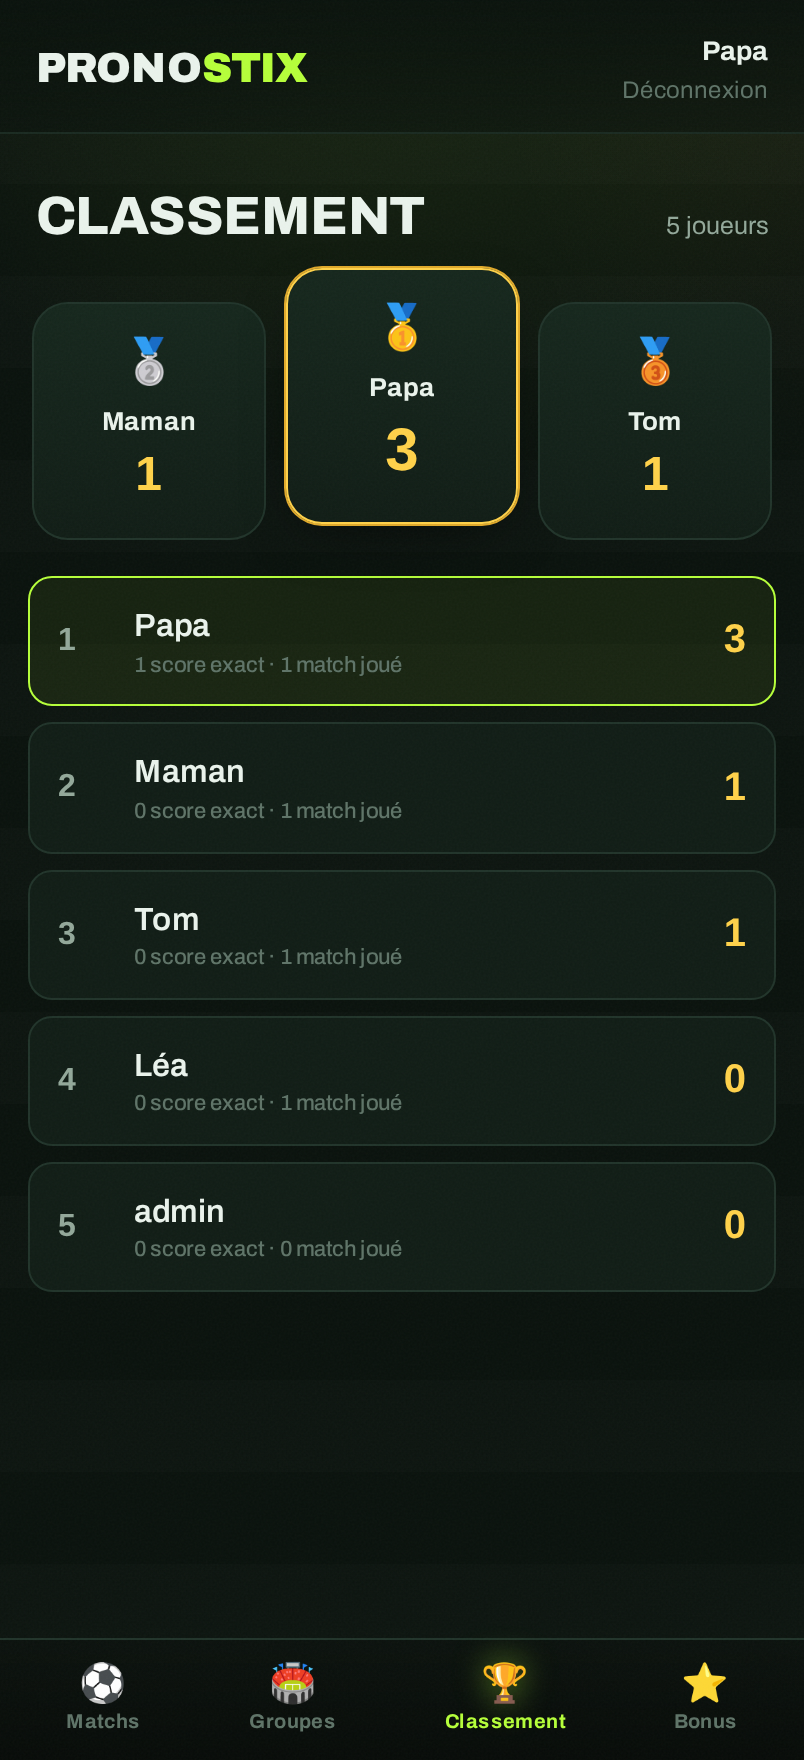
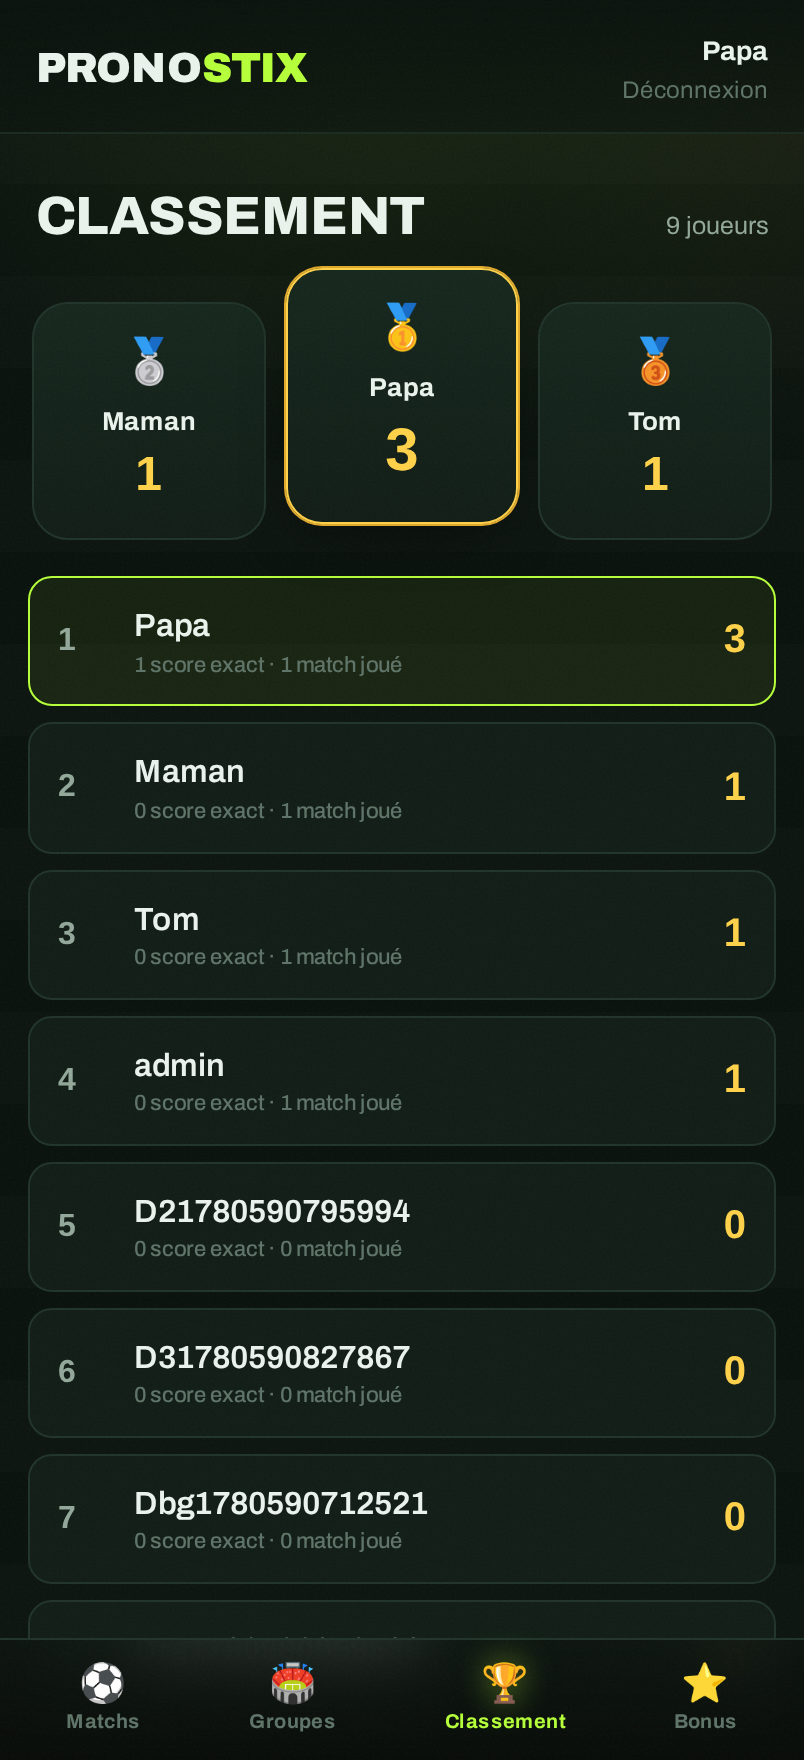
Ordre des groupes en drag & drop (tactile + souris)
Remplace les flèches haut/bas par une poignée de glisse basée sur les Pointer
Events : fonctionne au doigt sur mobile sans déclencher le scroll, et à la souris.
Réordonnancement en direct, renumérotation 1-4, sauvegarde auto. Screenshots du
README régénérés avec la nouvelle UI.

diff --git a/public/app.js b/public/app.js
@@ -310,7 +310,7 @@ function groupCard(g) {
         <tbody>${standRows}</tbody>
       </table>
       <div class="subhead">Ton pronostic d'ordre final</div>
-      <ul class="order-list" data-letter="${g.letter}">
+      <ul class="order-list ${g.locked ? 'locked' : ''}" data-letter="${g.letter}">
         ${orderTeams.map((t, i) => orderItem(t, i, official, g.locked)).join('')}
       </ul>
     </div>`;
@@ -322,41 +322,71 @@ function orderItem(t, i, official, locked) {
     const correct = official[i] === t.id;
     badge = correct ? `<span class="ok">✓ +1</span>` : `<span class="miss">✗</span>`;
   }
-  const arrows = locked ? '' : `
-    <div class="arrows">
-      <button data-act="up" ${i === 0 ? 'disabled' : ''}>▲</button>
-      <button data-act="down" data-last="${i}">▼</button>
-    </div>`;
+  const handle = locked ? '' : `<button class="drag-handle" aria-label="Glisser pour classer" title="Glisser pour classer">⠿</button>`;
   return `
-    <li class="order-item" data-team="${t.id}">
+    <li class="order-item ${locked ? '' : 'draggable'}" data-team="${t.id}">
       <span class="rk">${i + 1}</span>
       <img src="${flagUrl(t.flag)}" alt=""/>
       <span class="nm">${esc(t.name)}</span>
-      ${badge}${arrows}
+      ${badge}${handle}
     </li>`;
 }
 
 function bindGroups(view) {
-  view.addEventListener('click', (e) => {
-    const btn = e.target.closest('[data-act]');
-    if (!btn) return;
-    const list = e.target.closest('.order-list');
-    if (!list) return;
-    const item = e.target.closest('.order-item');
-    const items = [...list.children];
-    const idx = items.indexOf(item);
-    if (btn.dataset.act === 'up' && idx > 0) list.insertBefore(item, items[idx - 1]);
-    else if (btn.dataset.act === 'down' && idx < items.length - 1) list.insertBefore(items[idx + 1], item);
-    else return;
-    // renumber + persist
-    [...list.children].forEach((li, i) => { li.querySelector('.rk').textContent = i + 1; });
-    const letter = list.dataset.letter;
-    const order = [...list.children].map(li => Number(li.dataset.team));
-    [...list.querySelectorAll('.arrows button[data-act="up"]')].forEach((b, i) => b.disabled = i === 0);
+  view.querySelectorAll('.order-list:not(.locked)').forEach(enableDragReorder);
+}
+
+// Touch + mouse drag-to-reorder via Pointer Events (no native HTML5 DnD — it doesn't work on mobile).
+function enableDragReorder(list) {
+  const letter = list.dataset.letter;
+  let drag = null;
+
+  const onMove = (e) => {
+    if (!drag) return;
+    e.preventDefault();
+    // measure true flow position with the transform cleared, reorder, then offset under finger
+    drag.li.style.transform = 'none';
+    const others = [...list.querySelectorAll('.order-item:not(.dragging)')];
+    let ref = null;
+    for (const s of others) {
+      const r = s.getBoundingClientRect();
+      if (e.clientY < r.top + r.height / 2) { ref = s; break; }
+    }
+    list.insertBefore(drag.li, ref);
+    [...list.children].forEach((x, i) => { x.querySelector('.rk').textContent = i + 1; });
+    const slotTop = drag.li.getBoundingClientRect().top;
+    drag.li.style.transform = `translateY(${(e.clientY - drag.offsetY) - slotTop}px) scale(1.02)`;
+  };
+
+  const onUp = (e) => {
+    if (!drag) return;
+    const { li, handle } = drag;
+    handle.removeEventListener('pointermove', onMove);
+    try { handle.releasePointerCapture(e.pointerId); } catch {}
+    li.classList.remove('dragging');
+    li.style.transform = '';
+    li.style.zIndex = '';
+    drag = null;
+    const order = [...list.children].map(x => Number(x.dataset.team));
     debounceSave('g' + letter, async () => {
       try { await api(`/api/groups/${letter}/order`, { method: 'PUT', body: { order } }); toast(`Groupe ${letter} enregistré`); }
       catch (err) { toast(err.message, 'err'); }
-    }, 500);
+    }, 400);
+  };
+
+  list.querySelectorAll('.drag-handle').forEach(handle => {
+    handle.addEventListener('pointerdown', (e) => {
+      e.preventDefault();
+      const li = handle.closest('.order-item');
+      const rect = li.getBoundingClientRect();
+      drag = { li, handle, offsetY: e.clientY - rect.top };
+      li.classList.add('dragging');
+      li.style.zIndex = '50';
+      try { handle.setPointerCapture(e.pointerId); } catch {}
+      handle.addEventListener('pointermove', onMove);
+      handle.addEventListener('pointerup', onUp, { once: true });
+      handle.addEventListener('pointercancel', onUp, { once: true });
+    });
   });
 }
 

diff --git a/public/styles.css b/public/styles.css
@@ -182,10 +182,19 @@ body::after {
 .order-item .nm { flex: 1; font-size: 13px; font-weight: 600; }
 .order-item .ok { color: var(--gold); font-size: 11px; font-weight: 800; }
 .order-item .miss { color: var(--ink-faint); font-size: 11px; }
-.arrows { display: flex; flex-direction: column; gap: 2px; }
-.arrows button { width: 26px; height: 18px; border: 1px solid var(--line); background: var(--surface); color: var(--ink); border-radius: 6px; cursor: pointer; font-size: 10px; display: grid; place-items: center; }
-.arrows button:active { transform: scale(.9); }
-.arrows button:disabled { opacity: .25; cursor: default; }
+.drag-handle {
+  margin-left: auto; width: 38px; height: 38px; flex: none;
+  display: grid; place-items: center; font-size: 16px; line-height: 1;
+  border: 1px solid var(--line); border-radius: 9px; background: var(--surface);
+  color: var(--ink-faint); cursor: grab; touch-action: none; -webkit-tap-highlight-color: transparent;
+}
+.drag-handle:hover { color: var(--lime); border-color: var(--lime); }
+.drag-handle:active { cursor: grabbing; }
+.order-item.dragging {
+  border-color: var(--lime); background: var(--surface-2);
+  box-shadow: 0 14px 30px -8px rgba(0,0,0,.75); position: relative; will-change: transform;
+}
+.order-item.dragging .drag-handle { cursor: grabbing; color: var(--lime); }
 
 /* ---------- Leaderboard ---------- */
 .podium { display: flex; gap: 10px; padding: 8px 16px 4px; align-items: flex-end; }
